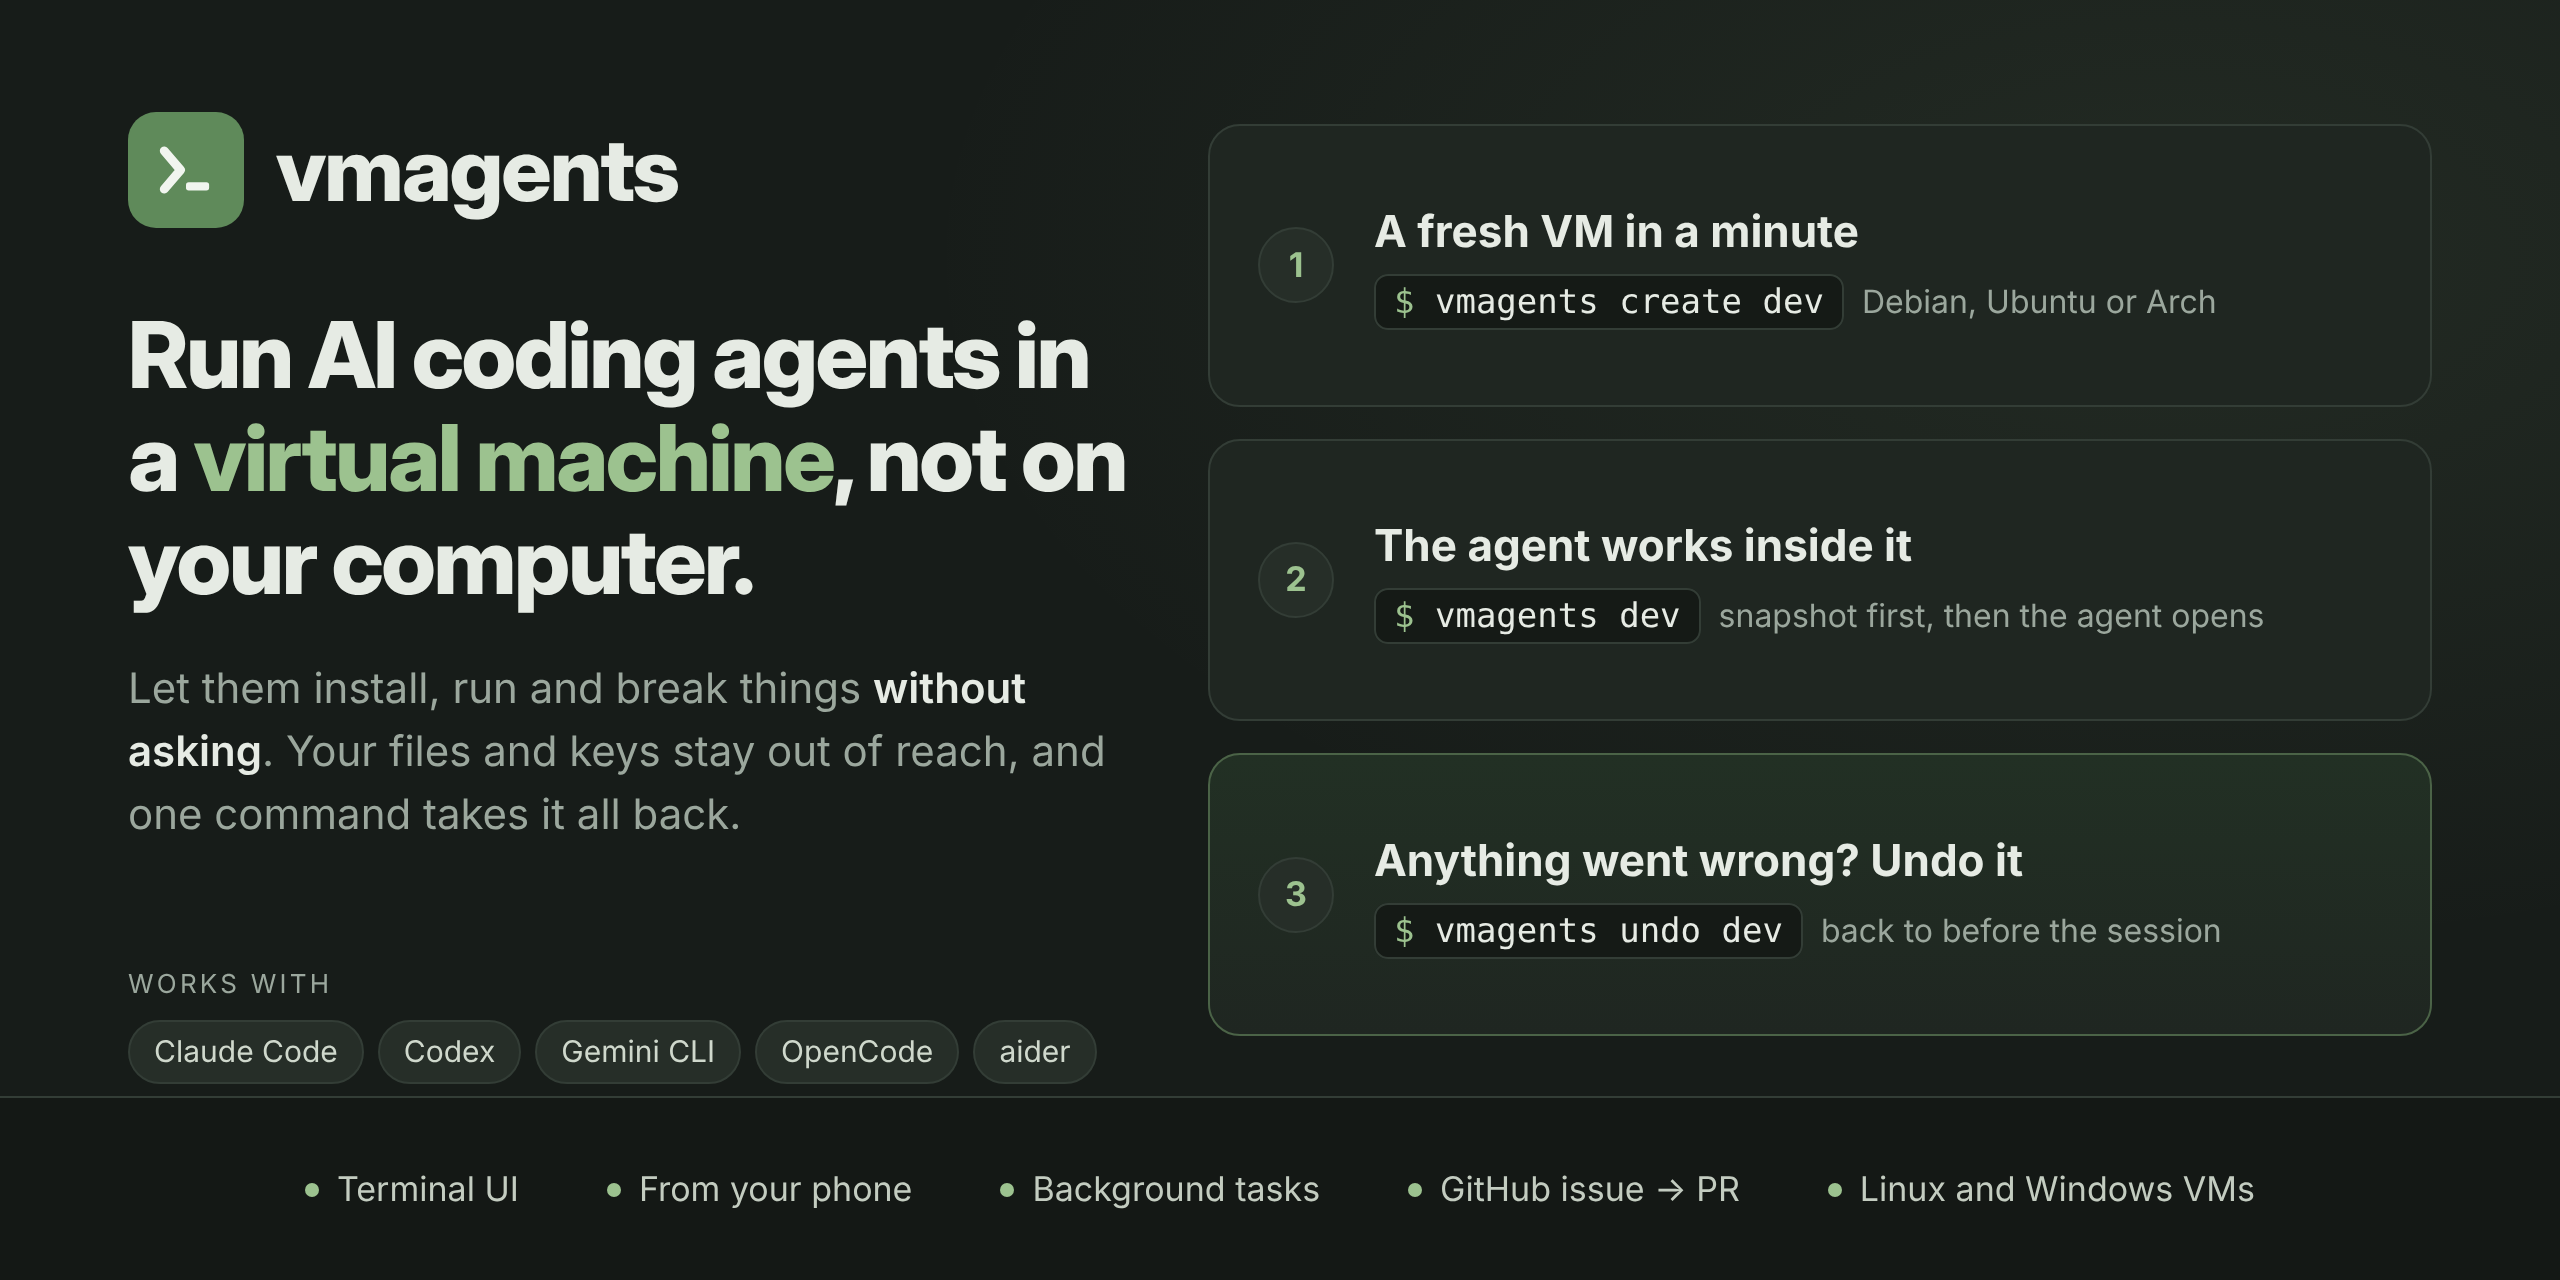
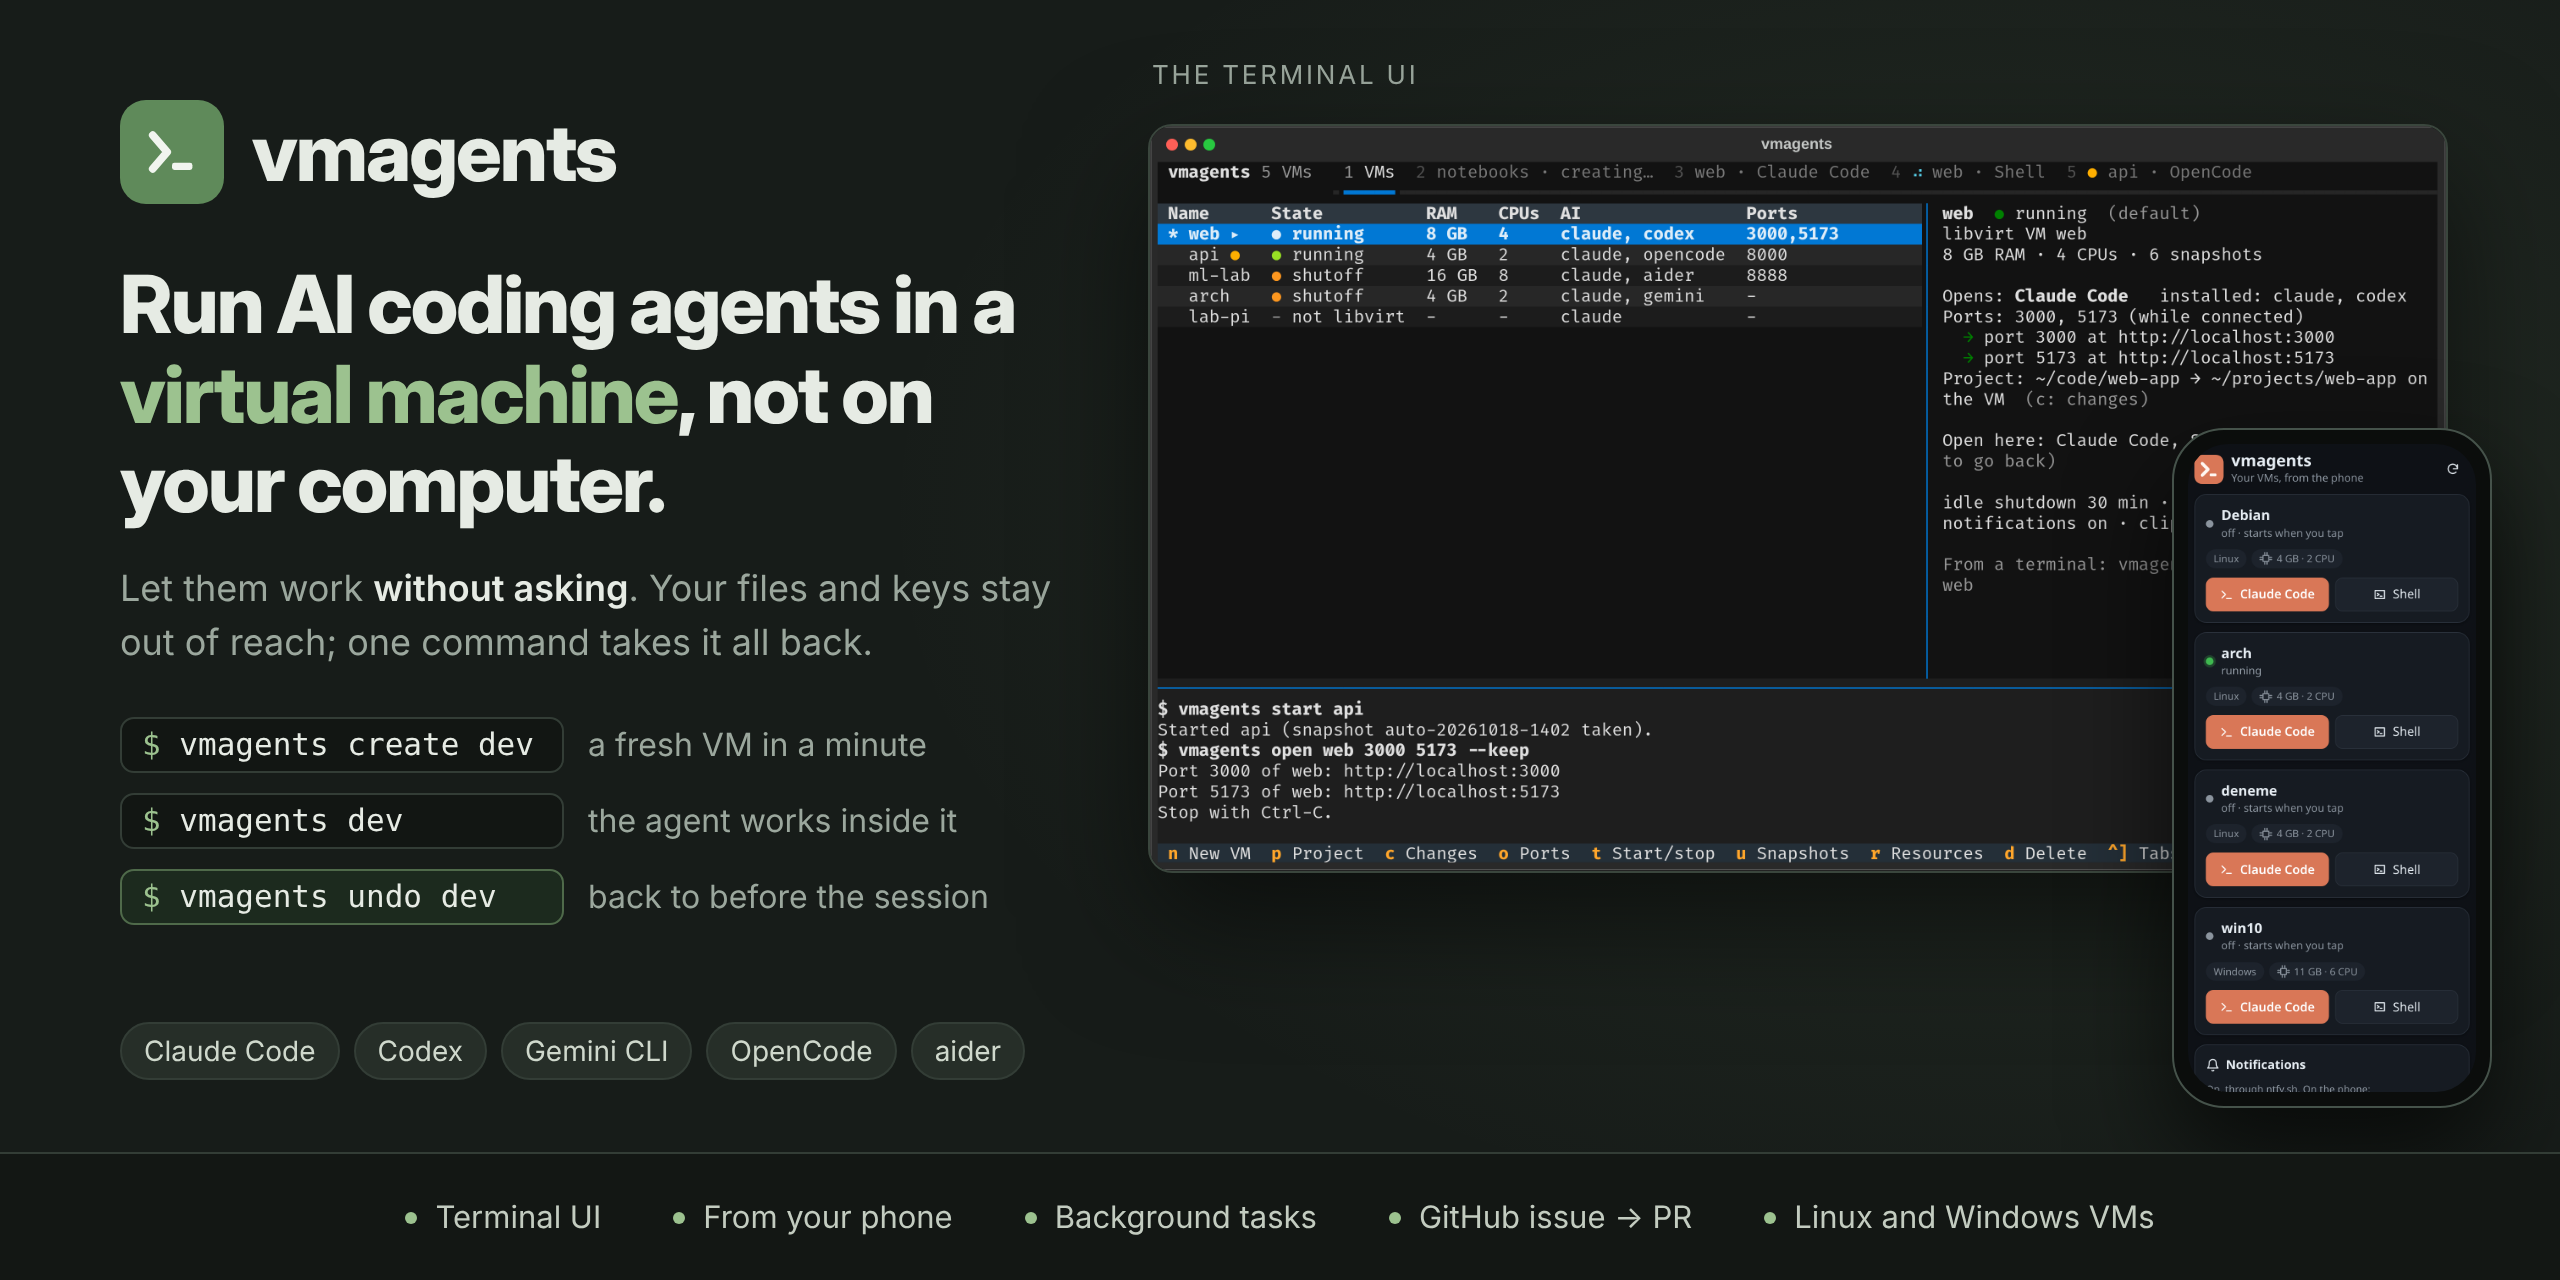
Social preview with the terminal UI and the phone page

diff --git a/docs/demo/social.html b/docs/demo/social.html
@@ -9,70 +9,59 @@
 body { width: 1280px; height: 640px; background: var(--bg); color: var(--text); overflow: hidden;
   font-family: "Inter", "DejaVu Sans", sans-serif; position: relative; }
 body::before { content: ""; position: absolute; inset: 0;
-  background: radial-gradient(900px 500px at 85% 20%, rgba(156, 194, 143, .09), transparent 70%); }
-.wrap { position: relative; display: flex; height: 548px; padding: 56px 64px 0; gap: 40px; }
-.left { width: 500px; flex: none; display: flex; flex-direction: column; }
-.brand { display: flex; align-items: center; gap: 16px; }
-.logo { width: 58px; height: 58px; border-radius: 14px; background: var(--deep); display: grid; place-items: center; }
-.brand h1 { font-family: "Inter Display", "Inter", sans-serif; font-size: 44px; font-weight: 800; letter-spacing: -1px; }
-.head { margin-top: 38px; font-family: "Inter Display", "Inter", sans-serif; font-size: 46px; line-height: 1.12;
-  font-weight: 800; letter-spacing: -1.2px; }
+  background: radial-gradient(800px 520px at 78% 40%, rgba(156, 194, 143, .10), transparent 70%); }
+.left { position: absolute; left: 60px; top: 50px; width: 470px; height: 490px; display: flex; flex-direction: column; }
+.brand { display: flex; align-items: center; gap: 14px; }
+.logo { width: 52px; height: 52px; border-radius: 13px; background: var(--deep); display: grid; place-items: center; }
+.brand h1 { font-family: "Inter Display", "Inter", sans-serif; font-size: 40px; font-weight: 800; letter-spacing: -1px; }
+.head { margin-top: 28px; font-family: "Inter Display", "Inter", sans-serif; font-size: 40px; line-height: 1.12;
+  font-weight: 800; letter-spacing: -1px; }
 .head em { font-style: normal; color: var(--green); }
-.sub { margin-top: 22px; font-size: 21px; line-height: 1.5; color: var(--dim); }
+.sub { margin-top: 16px; font-size: 18px; line-height: 1.5; color: var(--dim); }
 .sub b { color: var(--text); font-weight: 600; }
-.agents { margin-top: auto; padding-bottom: 6px; }
-.agents .label { font-size: 13px; letter-spacing: 1.6px; text-transform: uppercase; color: var(--dim); margin-bottom: 10px; }
-.pills { display: flex; gap: 7px; }
-.pills span { font-size: 15px; color: #cfd8cc; background: var(--panel2); border: 1px solid var(--line); border-radius: 999px;
-  padding: 6px 12px; white-space: nowrap; }
-.right { flex: 1; min-width: 0; display: flex; flex-direction: column; gap: 16px; padding: 6px 0 30px; }
-.step { flex: 1; display: flex; gap: 20px; align-items: center; background: var(--panel); border: 1px solid var(--line);
-  border-radius: 16px; padding: 24px 24px; }
-.num { width: 38px; height: 38px; flex: none; border-radius: 50%; background: var(--panel2); border: 1px solid var(--line);
-  display: grid; place-items: center; font-weight: 700; font-size: 17px; color: var(--green); }
-.step .t { font-size: 22px; font-weight: 700; }
-.step .d { margin-top: 10px; font-size: 16px; line-height: 1.45; color: var(--dim); white-space: nowrap; }
-code { font-family: "JetBrains Mono", "DejaVu Sans Mono", monospace; font-size: 17px; color: var(--text);
-  background: #151a16; border: 1px solid var(--line); border-radius: 7px; padding: 3px 9px; }
+.steps { margin-top: 24px; display: flex; flex-direction: column; gap: 10px; }
+.steps div { display: flex; align-items: center; gap: 12px; font-size: 16px; color: var(--dim); }
+code { font-family: "JetBrains Mono", "DejaVu Sans Mono", monospace; font-size: 15.5px; color: var(--text);
+  background: #121613; border: 1px solid var(--line); border-radius: 7px; padding: 4px 10px; min-width: 222px; }
 code b { color: var(--green); font-weight: 400; }
-.step.undo { border-color: #4b6347; background: linear-gradient(180deg, #223024, var(--panel)); }
-.foot { position: absolute; left: 0; right: 0; bottom: 0; height: 92px; border-top: 1px solid var(--line);
-  background: #141815; display: flex; align-items: center; justify-content: center; padding: 0 64px; }
-.feats { display: flex; gap: 44px; font-size: 17px; color: #c3ccc0; }
-.feats span::before { content: ""; display: inline-block; width: 7px; height: 7px; border-radius: 50%; background: var(--green);
+.steps .undo code { border-color: #4f6a4a; background: #1c2a1e; }
+.agents { margin-top: auto; display: flex; gap: 7px; }
+.agents span { font-size: 14px; color: #cfd8cc; background: var(--panel2); border: 1px solid var(--line); border-radius: 999px;
+  padding: 5px 11px; white-space: nowrap; }
+.screen { position: absolute; left: 574px; top: 62px; width: 650px; border-radius: 12px; overflow: hidden;
+  border: 1px solid #3a463d; box-shadow: 0 24px 60px rgba(0, 0, 0, .55); background: #111; }
+.screen .bar { height: 26px; background: #262b27; display: flex; align-items: center; gap: 7px; padding-left: 12px; }
+.screen .bar i { width: 10px; height: 10px; border-radius: 50%; background: #4a564d; }
+.screen .bar span { margin-left: 10px; font-size: 12px; color: #9ba79d; }
+.screen img { display: block; width: 100%; }
+.cap { position: absolute; font-size: 13px; letter-spacing: 1.4px; text-transform: uppercase; color: var(--dim); }
+.phone { position: absolute; left: 1086px; top: 214px; width: 160px; height: 340px; border-radius: 26px; padding: 7px;
+  background: #0b0d0c; border: 1px solid #45524a; box-shadow: 0 24px 50px rgba(0, 0, 0, .65); }
+.phone img { width: 100%; height: 100%; object-fit: cover; object-position: top; border-radius: 20px; display: block; }
+.foot { position: absolute; left: 0; right: 0; bottom: 0; height: 64px; border-top: 1px solid var(--line);
+  background: #131714; display: flex; align-items: center; justify-content: center; }
+.feats { display: flex; gap: 36px; font-size: 15.5px; color: #c3ccc0; }
+.feats span::before { content: ""; display: inline-block; width: 6px; height: 6px; border-radius: 50%; background: var(--green);
   margin-right: 9px; vertical-align: 2px; }
-.repo { font-family: "JetBrains Mono", "DejaVu Sans Mono", monospace; font-size: 15px; color: var(--dim); }
 </style></head><body>
-<div class="wrap">
-  <div class="left">
-    <div class="brand">
-      <div class="logo"><svg width="34" height="34" viewBox="0 0 100 100"><path d="M18 22 42 50 18 78" fill="none" stroke="#f1f5ef"
-        stroke-width="13" stroke-linecap="round" stroke-linejoin="round"/><rect x="50" y="68" width="34" height="12" rx="4" fill="#f1f5ef"/></svg></div>
-      <h1>vmagents</h1>
-    </div>
-    <div class="head">Run AI coding agents in a <em>virtual machine</em>, not on your computer.</div>
-    <div class="sub">Let them install, run and break things <b>without asking</b>. Your files and keys stay out of reach,
-      and one command takes it all back.</div>
-    <div class="agents">
-      <div class="label">Works with</div>
-      <div class="pills"><span>Claude Code</span><span>Codex</span><span>Gemini CLI</span><span>OpenCode</span><span>aider</span></div>
-    </div>
+<div class="left">
+  <div class="brand">
+    <div class="logo"><svg width="30" height="30" viewBox="0 0 100 100"><path d="M18 22 42 50 18 78" fill="none" stroke="#f1f5ef"
+      stroke-width="13" stroke-linecap="round" stroke-linejoin="round"/><rect x="50" y="68" width="34" height="12" rx="4" fill="#f1f5ef"/></svg></div>
+    <h1>vmagents</h1>
   </div>
-  <div class="right">
-    <div class="step"><div class="num">1</div><div>
-      <div class="t">A fresh VM in a minute</div>
-      <div class="d"><code><b>$</b> vmagents create dev</code>&nbsp; Debian, Ubuntu or Arch</div>
-    </div></div>
-    <div class="step"><div class="num">2</div><div>
-      <div class="t">The agent works inside it</div>
-      <div class="d"><code><b>$</b> vmagents dev</code>&nbsp; snapshot first, then the agent opens</div>
-    </div></div>
-    <div class="step undo"><div class="num">3</div><div>
-      <div class="t">Anything went wrong? Undo it</div>
-      <div class="d"><code><b>$</b> vmagents undo dev</code>&nbsp; back to before the session</div>
-    </div></div>
+  <div class="head">Run AI coding agents in a <em>virtual machine</em>, not on your computer.</div>
+  <div class="sub">Let them work <b>without asking</b>. Your files and keys stay out of reach; one command takes it all back.</div>
+  <div class="steps">
+    <div><code><b>$</b> vmagents create dev</code>a fresh VM in a minute</div>
+    <div><code><b>$</b> vmagents dev</code>the agent works inside it</div>
+    <div class="undo"><code><b>$</b> vmagents undo dev</code>back to before the session</div>
   </div>
+  <div class="agents"><span>Claude Code</span><span>Codex</span><span>Gemini CLI</span><span>OpenCode</span><span>aider</span></div>
 </div>
+<div class="cap" style="left: 576px; top: 30px">The terminal UI</div>
+<div class="screen"><img src="../ui.png"></div>
+<div class="phone"><img src="phone.png"></div>
 <div class="foot">
   <div class="feats"><span>Terminal UI</span><span>From your phone</span><span>Background tasks</span><span>GitHub issue → PR</span><span>Linux and Windows VMs</span></div>
 </div>
